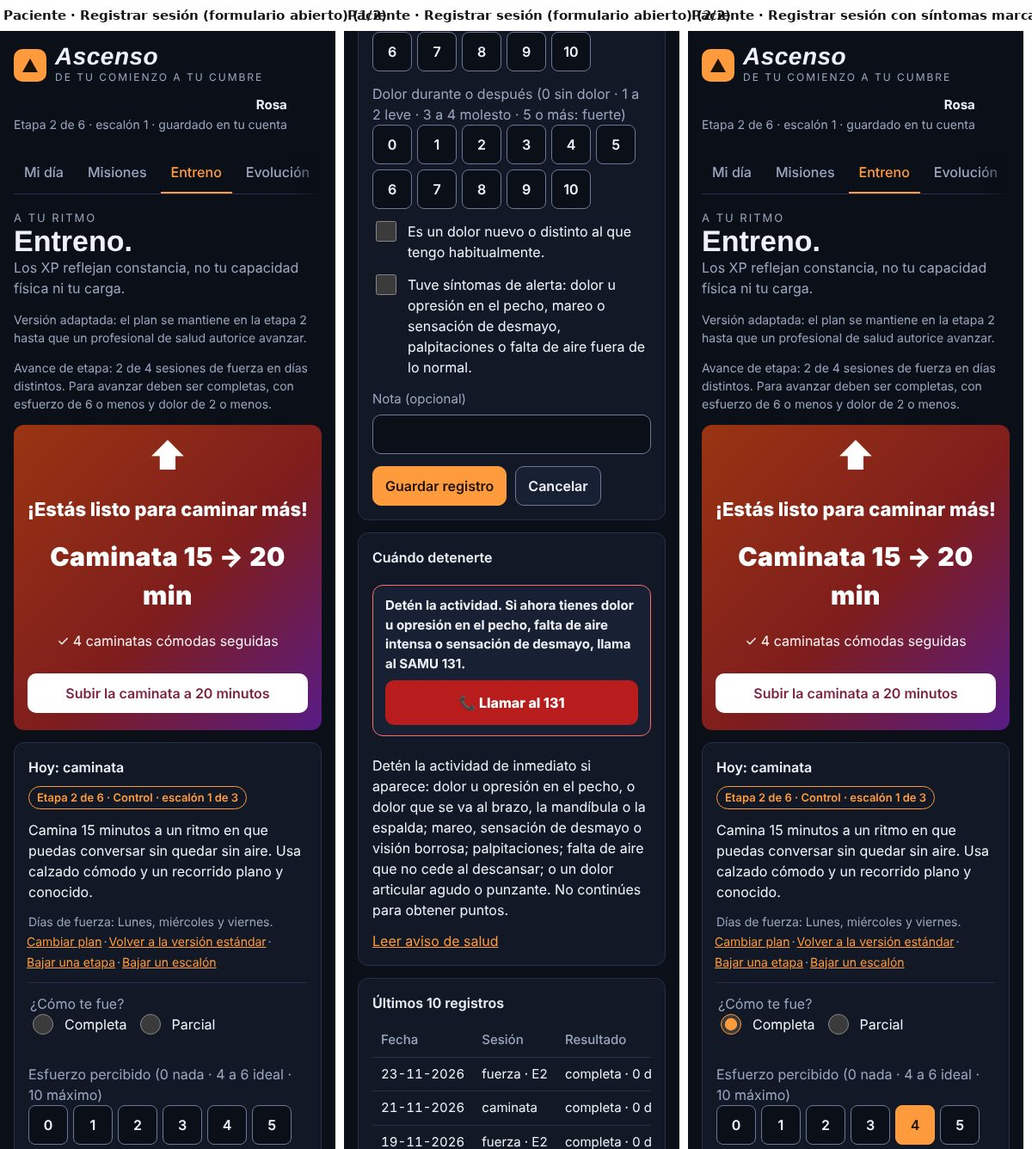
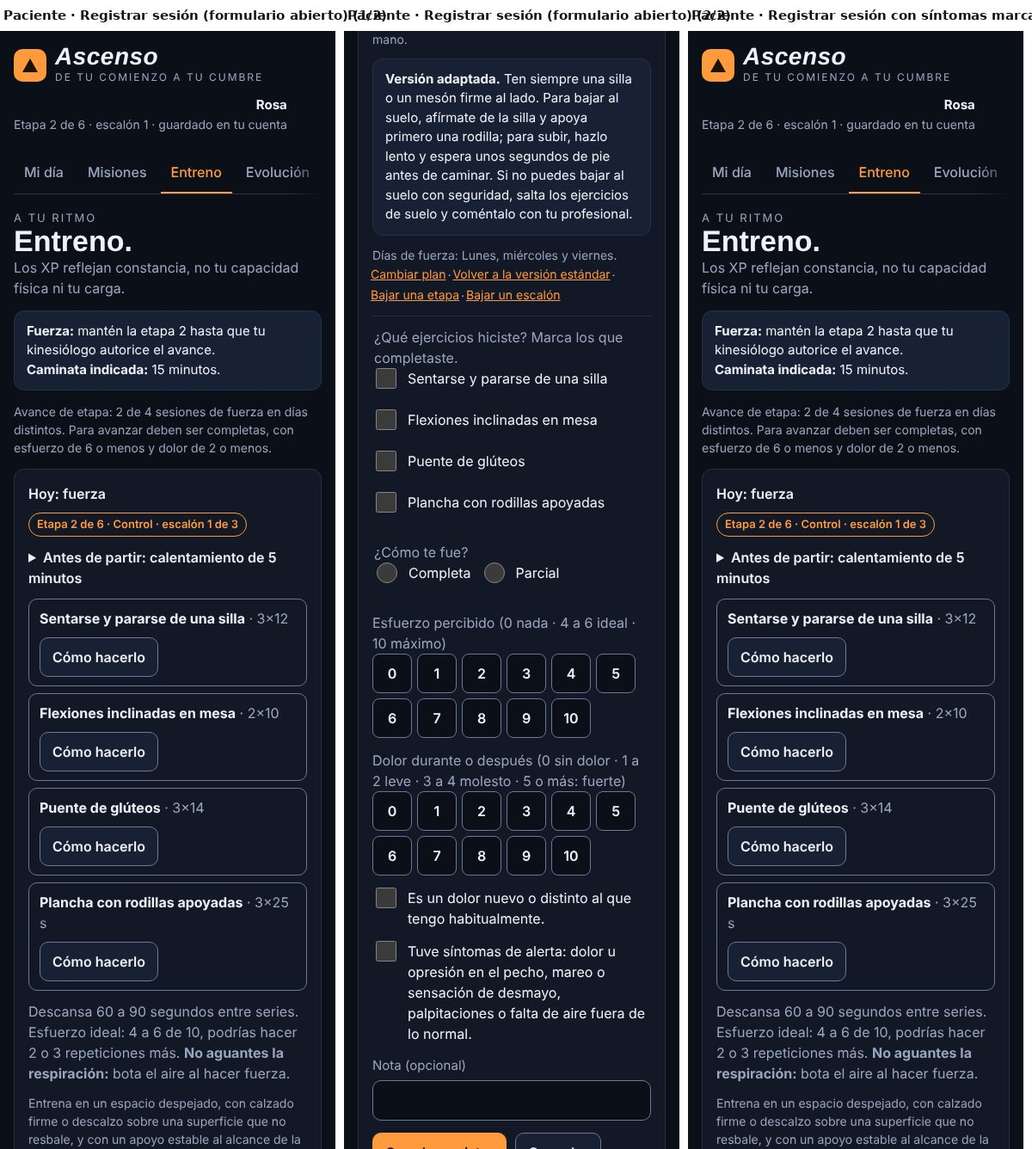
Copia de prueba v79: estado de Hoy y capturas nuevas (la app de los pacientes no cambia)
Claude-Session: https://claude.ai/code/session_01J9tU8kEPtqaroEiwXZirqq

diff --git a/beta/index.html b/beta/index.html
@@ -2,7 +2,7 @@
 <html lang="es">
 <head><base href="/ascenso/"><meta name="robots" content="noindex,nofollow"><script>(function(){var P="beta::",S=Storage.prototype,g=S.getItem,t=S.setItem,r=S.removeItem;S.getItem=function(k){return g.call(this,P+k)};S.setItem=function(k,v){return t.call(this,P+k,v)};S.removeItem=function(k){return r.call(this,P+k)};window.__BETA=true;window.__BETA_OK=[]})();</script>
 <meta charset="utf-8">
-<meta http-equiv="Content-Security-Policy" content="script-src 'self' 'sha256-s/2Ct3tFYhvXDkHKQXgCxKZn0b7j8MYsCZJcokQtB40=' 'sha256-ee+r87DiRyT1BMoy9g0ZvcoBcVChno8yxkILl9VuQII=' 'sha256-AFdyW6QBsN7g3o2Wol3DzaFtzZPYZuMmQ8KwB76Xs6I=' 'sha256-5m2u4pl+QQ/JE5w8ukPTJ/in6Wfsb5JmjLwGXVXoulQ=' 'sha256-x6Jjqo12cp5KPEwhwsD15s6v7TK37973w38eJjFjN10='; object-src 'none'; base-uri 'self'">
+<meta http-equiv="Content-Security-Policy" content="script-src 'self' 'sha256-s/2Ct3tFYhvXDkHKQXgCxKZn0b7j8MYsCZJcokQtB40=' 'sha256-2qm+Nt5Uu7L4RKgV59o0kIRsnuY0dnKosS4yotFTYTM=' 'sha256-AFdyW6QBsN7g3o2Wol3DzaFtzZPYZuMmQ8KwB76Xs6I=' 'sha256-5m2u4pl+QQ/JE5w8ukPTJ/in6Wfsb5JmjLwGXVXoulQ=' 'sha256-x6Jjqo12cp5KPEwhwsD15s6v7TK37973w38eJjFjN10='; object-src 'none'; base-uri 'self'">
 <meta name="viewport" content="width=device-width,initial-scale=1,viewport-fit=cover">
 <meta name="theme-color" content="#0b0f17">
 
@@ -428,6 +428,8 @@ function parqFlags(){return parqValid()?S.train.parq.map((v,i)=>v?i:-1).filter(i
 function trainReady(){const t=S.train;if(t.hold&&t.hold.kind==="dolor"){const hs=t.sessions.find(x=>x.id===t.hold.sid);if(hs&&!(hs.pain>=6)){if(!hs.paused)hs.paused="dolor";hs.autoLift=1;t.hold=null}}if(!S.onboard?.health)return"consent";if(!parqValid())return"parq";if(parqFlags().length&&!proClear("parq"))return"paused";if(t.hold)return"hold";if(!t.plan)return"plan";return"ok"}
 function strengthAt(stage){const t=S.train;return t.sessions.filter(s=>s.type==="fuerza"&&s.stage===stage&&(s.at||0)>=(t.stageAt||0))}
 function sessionToday(){return S.train.sessions.find(s=>s.date===today())}
+function nextTrainTxt(){const p=S.train.plan;if(!p)return"";const dw=(new Date().getDay()+1)%7;return DAYSETS[p.days].d.includes(dw)?"mañana, fuerza · etapa "+S.train.stage:"mañana, caminata de "+p.walk+" minutos"}
+function capLines(){if(!(S.train&&S.train.plan&&seniorCap()))return"";return`<div class="banner" id="capLines"><b>Fuerza:</b> mantén la etapa ${S.train.stage} hasta que tu kinesiólogo autorice el avance.<br><b>Caminata indicada:</b> ${S.train.plan.walk} minutos.</div>`}
 function walkUp(){const t=S.train;if(!t.plan||t.plan.walk>=30)return 0;const w=t.sessions.filter(s=>s.type==="caminata"&&(s.at||0)>=(t.walkAt||0)),days=[...new Set(w.map(s=>s.date))];return days.length>=NEED&&w.slice(0,NEED).every(s=>s.result==="completa"&&s.borg<=6&&s.pain<=2&&!s.alert)?t.plan.walk+5:0}
 const LVMAX=3;
 function doseAt(d,l){if(!l)return d;const m=String(d).match(/^(\d+)×(\d+)( s)?(.*)$/);if(!m)return d;return m[1]+"×"+(+m[2]+(m[3]?5:2)*l)+(m[3]||"")+m[4]}
@@ -775,7 +777,7 @@ function evoModal(){if(!view.evo)return"";const{from,to}=view.evo,mo=motionOn();
 function art(i,locked){return pxSvg(myAv(),i+1,{anim:false,scene:false,locked,label:formName(i)+", forma "+(i+1)})}
 function artOld(i,locked){const a=ART[S.profile.route],n=i+1;if(!a.have.includes(n))return emblem(i,locked);return`<img src="evo/${a.p}${pad(n)}.jpg" alt="${esc(ROUTES[S.profile.route].names[i])}, etapa ${n}" loading="lazy" style="width:100%;height:100%;object-fit:cover;display:block;${locked?"filter:grayscale(1) brightness(.45)":""}">`}
 function stageBar(){if(trainReady()!=="ok")return"";const t=S.train,pr=progression(),n=Math.min(pr.n,NEED),dots=Array.from({length:NEED},(_,i)=>`<i class="${i<n?"on":""}"></i>`).join("");
- const falta=t.stage>=6?"Llegaste a la última etapa del plan.":pr.state==="hold"?"Tu último registro tuvo dolor 3 o más: mantén la etapa.":pr.state==="cap"?"Para pasar a la etapa "+(t.stage+1)+" necesitas la autorización de tu kinesiólogo.":pr.state==="advance"?"Ya puedes pasar a la etapa "+(t.stage+1)+".":`Te ${NEED-n===1?"falta 1 sesión completa":"faltan "+(NEED-n)+" sesiones completas"} con dolor 2 o menos para la etapa ${t.stage+1}.`;
+ const falta=t.stage>=6?"Llegaste a la última etapa del plan.":pr.state==="hold"?"Tu último registro tuvo dolor 3 o más: mantén la etapa.":pr.state==="cap"?"Para pasar a la etapa "+(t.stage+1)+" necesitas la autorización de tu kinesiólogo.":pr.state==="advance"?"Ya puedes pasar a la etapa "+(t.stage+1)+".":`Te ${NEED-n===1?"falta 1 sesión completa":"faltan "+(NEED-n)+" sesiones completas"} con dolor 2 o menos para la etapa ${t.stage+1}.`+(seniorCap()?` Además, para pasar a la etapa ${t.stage+1} necesitas la autorización de tu kinesiólogo.`:"");
  return`<button class="stbar" data-act="tab" data-k="entreno" aria-label="Plan de fuerza: etapa ${t.stage} de 6. ${falta}"><span class="eyebrow">Plan de fuerza</span><b>Etapa ${t.stage} de 6${t.lvl?` · escalón ${t.lvl} de ${LVMAX}`:""}</b><span class="stdots" aria-hidden="true">${dots}</span><span class="small">${falta}</span></button>`}
 function rxAll(){return SH.mine.filter(x=>Array.isArray(x.rx)&&x.rx.length).flatMap(x=>x.rx).filter(it=>rxOn(it))}
 /* ===== Medición anónima de uso: solo conteos por día, sin usuario ni dispositivo ===== */
@@ -809,7 +811,7 @@ function vSimple(){const d=today(),its=rxAll(),ms=dayMissions(d),done=S.done[d]|
  ${memberBanner0()}${kineCard()}
  <p class="shelp">🤝 Si te ayuda alguien, puede tocar los botones por ti.</p>
  ${its.length?`<section class="scard"><h2>Ejercicios de tu kinesiólogo</h2><p style="margin:0;font-size:18px"><b>${nd} de ${its.length}</b> hechos hoy</p>${its.map((it,i)=>{const k=rxKey(it),ok=rxIsDone(k),src=it.ex?rxSrc(it.ex):"";return`<button class="srow${ok?" ok":""}" data-act="sxGo" data-i="${i}">${src?`<img src="${src}" alt="" loading="lazy">`:""}<span><b>${esc(rxName(it))}</b>${it.dose?`<small>${esc(it.dose)}</small>`:""}</span><span class="sst" aria-label="${ok?"Hecho":"Pendiente"}">${ok?"✓":""}</span></button>`}).join("")}${nx>=0?(painStop()?`<div class="banner bad" style="margin-top:12px;font-size:17px"><b>Marcaste dolor ${fb.pain} de 10.</b> Antes de seguir con ejercicios hoy, habla con tu kinesiólogo.</div>${SH.mine.length?`<button class="btn pri sxl" data-act="sxPainNote">Avisarle a mi kinesiólogo</button>`:""}<button class="btn sxl" data-act="sxPainGo">Hablé con mi kinesiólogo y quiero seguir</button>`:`<button class="btn pri sxl" data-act="sxGo" data-i="${nx}">▶ ${nd?"Seguir con el siguiente":"Empezar mis ejercicios"}</button>`):`<p style="margin:12px 0 0;font-size:19px">✅ <b>¡Listo por hoy!</b> Hiciste todos tus ejercicios.</p>`}</section>`:anyRx?`<section class="scard"><h2>Ejercicios de tu kinesiólogo</h2><p style="margin:0;font-size:18px">Hoy no te tocan. Descansar también es parte del plan.${rxNext(SH.mine.flatMap(x=>x.rx||[]))?` Los próximos son el <b>${rxNext(SH.mine.flatMap(x=>x.rx||[]))}</b>.`:""}</p></section>`:""}
- ${S.train&&S.train.plan?`<section class="scard"><h2>Tu plan Ascenso</h2>${tr==="ok"?`<p style="margin:0;font-size:18px">Hoy toca <b>${tt==="fuerza"?"fuerza · etapa "+S.train.stage:"caminata de "+S.train.plan.walk+" minutos"}</b>.</p><button class="btn sxl" data-act="sxPlan">Hacer mi plan de hoy</button>`:`<p style="margin:0;font-size:18px"><b>${trPauseMsg(tr).t}.</b>${trPauseMsg(tr).sub?" "+trPauseMsg(tr).sub:""}</p><button class="btn sxl" data-act="sxPlan">Ver mi plan</button>`}</section>`:""}
+ ${S.train&&S.train.plan?`<section class="scard"><h2>Tu plan Ascenso</h2>${tr==="ok"?(sessionToday()?`<p style="margin:0;font-size:18px"><b>Tu sesión de hoy ya está registrada.</b> Próxima: ${nextTrainTxt()}.</p>${capLines()}<button class="btn sxl" data-act="sxPlan">Ver mi plan</button>`:`<p style="margin:0;font-size:18px">Hoy toca <b>${tt==="fuerza"?"fuerza · etapa "+S.train.stage:"caminata de "+S.train.plan.walk+" minutos"}</b>.</p>${capLines()}<button class="btn sxl" data-act="sxPlan">Hacer mi plan de hoy</button>`):`<p style="margin:0;font-size:18px"><b>${trPauseMsg(tr).t}.</b>${trPauseMsg(tr).sub?" "+trPauseMsg(tr).sub:""}</p><button class="btn sxl" data-act="sxPlan">Ver mi plan</button>`}</section>`:""}
  ${ms.length?`<section class="scard"><h2>Tus hábitos de hoy</h2><p class="mute" style="margin:0">Toca cada uno cuando lo cumplas.</p>${ms.map(m=>`<button class="srow${done[m.id]?" ok":""}" data-act="toggle" data-id="${m.id}"><span><b>${esc(m.name)}</b>${m.time?`<small>${esc(m.time)}</small>`:""}</span><span class="sst" aria-label="${done[m.id]?"Cumplido":"Pendiente"}">${done[m.id]?"✓":""}</span></button>`).join("")}</section>`:""}
  <section class="scard"><h2>¿Cómo te sentiste hoy?</h2>${sScale("tired","Cansancio",fb.tired)}${sScale("pain","Dolor",fb.pain)}${fb.pain>=6?`<p class="banner bad" style="margin:12px 0 0;font-size:17px">Con dolor de ${fb.pain} de 10, no sigas con ejercicios hoy sin hablar antes con tu kinesiólogo. ${SH.mine.length?"Él verá este aviso.":""} Si el dolor es muy fuerte o aparece de golpe, llama al SAMU 131.</p>${samuBox("10px 0 0")}`:""}</section>
  ${sProg()}
@@ -828,7 +830,7 @@ function vDia(){if(S.ui&&S.ui.simple&&!view.sOut)return vSimple();const d=today(
  return`${kineCard()}${simpleOffer()}${simpleBtn()}${hasRx?memberTop():memberBanner()}${lvUpCard(0)}${vRxHoy()}${stageBar()}${hasRx&&!memberBanner0()?(pushBanner()||fbBanner()):""}${hasRx?"":ageBanner()}${moodCard()}<section class="hero${hasRx?" mini":""}"><button class="hero-px${cel?" jump":""} mood${moodLvl(moodDays())}" data-act="tab" data-k="evolucion" aria-label="Ver tu evolución">${pxSvg(myAv(),si+1,{anim:mo,label:"Tu personaje: "+formName(si)})}${cel&&view.celXp?`<span class="xpf" aria-hidden="true">+${view.celXp} XP</span>`:""}</button>
  <div style="min-width:0"><div class="eyebrow">${new Date().toLocaleDateString("es-CL",{weekday:"long",day:"numeric"})}</div><h1>${esc(formName(si))}</h1><p class="lvl">Tu personaje</p>${moodBar()}${pbar(pct)}<p class="small">${next?`<b>${next-xp} XP</b> para ${esc(formName(si+1))}`:"Llegaste a la cumbre."}</p></div></section>
  ${hasRx?"":`<div class="chips"><div class="chip"><span class="ci">${ICO_OK}</span><b>${n}/${ms.length}</b><span>misiones hoy</span></div><button class="chip" data-act="streakInfo"><span class="ci">${ICO_FIRE}</span><b>${sk}</b><span>${sk===1?"día seguido":"días seguidos"}</span></button><div class="chip"><span class="ci">${ICO_XP}</span><b>${xp}</b><span>XP total</span></div></div>`}
- ${tr==="ok"?`<button class="todo" data-act="tab" data-k="entreno"><span class="eyebrow">Hoy toca</span><b>${tt==="fuerza"?"Fuerza · etapa "+S.train.stage:"Caminata de "+S.train.plan.walk+" min"}</b><span class="go" aria-hidden="true">→</span></button>`:S.onboard&&S.onboard.health?(()=>{const m=trPauseMsg(tr);return`<button class="todo${m.bad?"":" soft"}" data-act="tab" data-k="entreno"${m.bad?` style="border:2px solid var(--warn,#c80)"`:""}><span class="eyebrow">${m.eb}</span><b>${m.t}</b>${m.sub?`<span class="small" style="display:block;font-weight:400">${m.sub}</span>`:""}<span class="go" aria-hidden="true">→</span></button>`})():""}
+ ${tr==="ok"?(sessionToday()?`<button class="todo soft" data-act="tab" data-k="entreno" id="todoDone"><span class="eyebrow">Tu sesión de hoy ya está registrada</span><b>Próxima: ${nextTrainTxt()}</b><span class="go" aria-hidden="true">→</span></button>`:`<button class="todo" data-act="tab" data-k="entreno"><span class="eyebrow">Hoy toca</span><b>${tt==="fuerza"?"Fuerza · etapa "+S.train.stage:"Caminata de "+S.train.plan.walk+" min"}</b><span class="go" aria-hidden="true">→</span></button>`)+capLines():S.onboard&&S.onboard.health?(()=>{const m=trPauseMsg(tr);return`<button class="todo${m.bad?"":" soft"}" data-act="tab" data-k="entreno"${m.bad?` style="border:2px solid var(--warn,#c80)"`:""}><span class="eyebrow">${m.eb}</span><b>${m.t}</b>${m.sub?`<span class="small" style="display:block;font-weight:400">${m.sub}</span>`:""}<span class="go" aria-hidden="true">→</span></button>`})():""}
  ${S.profile.av?"":`<button class="todo soft" data-act="tab" data-k="evolucion"><span class="eyebrow">Nuevo</span><b>Elige tu personaje entre ${Object.keys(PX.CH).length*2}</b><span class="go" aria-hidden="true">→</span></button>`}
  ${vTimer()}${hasRx?ageBanner():""}
  <div class="row sp"><h2>Misiones de hoy</h2><button class="btn pri" data-act="newMission">+ Nueva</button></div>
@@ -866,9 +868,9 @@ function vEntreno(){const t=S.train,r=trainReady();let body="";
  else if(r==="plan")body=`<form class="card" id="planForm"><h3>Crear mi plan de tres días</h3><label>3 días de fuerza por semana<select id="pDays">${Object.entries(DAYSETS).map(([k,v])=>`<option value="${k}">${v.label}</option>`).join("")}</select></label><label>Duración inicial de la caminata<select id="pWalk">${[5,10,15,20,30].map(n=>`<option value="${n}" ${n===10?"selected":""}>${n} minutos</option>`).join("")}</select></label><label class="chk tap"><input type="checkbox" id="pSenior" ${t.senior?"checked":""}> <span>Tengo 60 años o más, o prefiero la versión adaptada (ilustraciones con una persona mayor y consejos de seguridad extra).</span></label><p class="mute small">Si estás retomando, elige 5 o 10 minutos y un ritmo cómodo. Puedes hacer menos y registrar lo que realmente hiciste.</p><div class="row"><button class="btn pri" type="submit">Activar mi plan</button></div></form>`;
  else if(r==="hold"){const h=t.hold,sx=h.kind==="sintomas";body=`<div class="card"><div class="banner bad"><b>Tu plan está en pausa.</b> El ${fmtDate(h.at)} registraste ${sx?"síntomas de alerta":"dolor alto o un dolor nuevo"}.</div>${sx?samuBox():""}<p>${sx?"Si los síntomas siguen, fueron intensos o se repiten, consulta a un profesional antes de volver a entrenar. ":"Descansa de la fuerza hasta que el dolor vuelva a tu nivel habitual. Si no mejora en unos días, o empeora, consulta a un profesional."}</p>${SH.mine.length?`<p class="small"><b>Tu kinesiólogo ve este aviso en su panel</b> (${esc(SH.mine.map(x=>x.email).join(", "))}). Si no te contacta en 48 horas, escríbele tú.</p>`:`<p class="small">Si tienes kinesiólogo, comparte tu avance con él en Entreno para que vea este aviso.</p>`}<label class="chk tap"><input type="checkbox" id="holdChk"> <span>${sx?"Los síntomas pasaron y, si fue necesario, consulté a un profesional.":"El dolor volvió a mi nivel habitual."}</span></label><div class="row"><button class="btn pri" data-act="holdOff" data-m="same">Reanudar mi plan</button>${t.stage>1?`<button class="btn" data-act="holdOff" data-m="down">Reanudar una etapa más abajo</button>`:""}</div><p class="mute small">Al reanudar, el avance de etapa parte de cero${sx?" y te pediremos responder de nuevo el cuestionario previo":""}.</p></div>`}
  else{const tt=todayTrain(),st=STAGES[t.stage-1],pr=progression(),sd=sessionToday(),wu=walkUp();
-  body=`${pr.state==="hold"?`<div class="banner warn"><b>Dolor 3 o 4 en tu último registro:</b> mantén la etapa actual y no subas la carga.</div>`:pr.state==="cap"?`<form class="banner warn" id="sokForm"><b>Cumpliste las sesiones para avanzar, pero en la versión adaptada el plan se queda en la etapa ${t.stage}.</b> Desde la etapa 3 aparecen ejercicios más exigentes, como la plancha completa y el puente a una pierna. Para seguir avanzando, pide a tu médico o kinesiólogo que revise cómo los haces. Mientras tanto puedes seguir entrenando en esta etapa todo el tiempo que quieras.<p class="small" style="margin:8px 0 0">${SH.mine.length?"Tu kinesiólogo puede autorizarlo desde su panel. Cuando lo haga, podrás seguir avanzando.":"Comparte tu avance con tu kinesiólogo (en Entreno) para que pueda revisarlo y autorizarlo desde su panel."}</p></form>`:pr.state==="advance"?lvUpCard(1):t.stage<6?`${seniorCap()?`<p class="mute small">Versión adaptada: el plan se mantiene en la etapa ${t.stage} hasta que un profesional de salud autorice avanzar.</p>`:""}<p class="mute small">Avance de etapa: ${Math.min(pr.n,NEED)} de ${NEED} sesiones de fuerza en días distintos. Para avanzar deben ser completas, con esfuerzo de 6 o menos y dolor de 2 o menos.</p>`:""}${pr.state!=="advance"?lvUpCard(1):""}
+  body=`${pr.state==="hold"?`<div class="banner warn"><b>Dolor 3 o 4 en tu último registro:</b> mantén la etapa actual y no subas la carga.</div>`:pr.state==="cap"?`<form class="banner warn" id="sokForm"><b>Cumpliste las sesiones para avanzar, pero en la versión adaptada el plan se queda en la etapa ${t.stage}.</b> Desde la etapa 3 aparecen ejercicios más exigentes, como la plancha completa y el puente a una pierna. Para seguir avanzando, pide a tu médico o kinesiólogo que revise cómo los haces. Mientras tanto puedes seguir entrenando en esta etapa todo el tiempo que quieras.<p class="small" style="margin:8px 0 0">${SH.mine.length?"Tu kinesiólogo puede autorizarlo desde su panel. Cuando lo haga, podrás seguir avanzando.":"Comparte tu avance con tu kinesiólogo (en Entreno) para que pueda revisarlo y autorizarlo desde su panel."}</p></form>${capLines()}`:pr.state==="advance"?lvUpCard(1):t.stage<6?`${seniorCap()?capLines():""}<p class="mute small">Avance de etapa: ${Math.min(pr.n,NEED)} de ${NEED} sesiones de fuerza en días distintos. Para avanzar deben ser completas, con esfuerzo de 6 o menos y dolor de 2 o menos.</p>`:""}${pr.state!=="advance"?lvUpCard(1):""}
   <div class="card"><div class="row sp"><h3>Hoy: ${tt==="fuerza"?"fuerza":"caminata"}</h3><span class="pill acc">Etapa ${t.stage} de 6 · ${st[0]}${t.lvl?" · escalón "+t.lvl+" de "+LVMAX:""}</span></div>${tt==="fuerza"?`<details><summary>Antes de partir: calentamiento de 5 minutos</summary><ul style="margin:8px 0 0;padding-left:20px"><li>Camina en el lugar o por la casa 2 minutos.</li><li>10 círculos de hombros hacia adelante y 10 hacia atrás.</li><li>10 balanceos suaves de cada pierna, afirmado de un mueble.</li><li>5 repeticiones lentas del primer ejercicio, sin esfuerzo.</li></ul></details><div class="stack" style="gap:8px">${st[1].map(([id,dose,alt],k)=>{const x=EX[id],op=view.ex===k;return`<div style="border:1px solid var(--line2);border-radius:10px;padding:10px 12px"><div class="row sp"><span><b>${alt||x.n}</b> <span class="mute">· ${doseAt(dose,t.lvl||0)}</span></span><button class="btn" data-act="exOpen" data-k="${k}" aria-expanded="${op}">${op?"Ocultar":"Cómo hacerlo"}</button></div>${op?`${exImg(id,x)}<ol style="margin:10px 0 0;padding-left:20px">${x.how.map(h=>`<li>${h}</li>`).join("")}</ol><p class="small" style="margin-top:8px"><b>Ritmo:</b> ${TEMPO[id]||""}</p><p class="small" style="margin-top:4px"><b>Cuidado:</b> ${x.care}</p>${exReview(id)}`:""}</div>`}).join("")}</div><p class="mute">Descansa 60 a 90 segundos entre series. Esfuerzo ideal: 4 a 6 de 10, podrías hacer 2 o 3 repeticiones más. <b>No aguantes la respiración:</b> bota el aire al hacer fuerza.</p><p class="mute small">Entrena en un espacio despejado, con calzado firme o descalzo sobre una superficie que no resbale, y con un apoyo estable al alcance de la mano.</p>${t.senior?`<div class="banner"><b>Versión adaptada.</b> Ten siempre una silla o un mesón firme al lado. Para bajar al suelo, afírmate de la silla y apoya primero una rodilla; para subir, hazlo lento y espera unos segundos de pie antes de caminar. Si no puedes bajar al suelo con seguridad, salta los ejercicios de suelo y coméntalo con tu profesional.</div>`:""}`:`<p>Camina ${t.plan.walk} minutos a un ritmo en que puedas conversar sin quedar sin aire. Usa calzado cómodo y un recorrido plano y conocido.</p>`}<p class="mute small">Días de fuerza: ${DAYSETS[t.plan.days].label}. <button class="link tap" data-act="resetPlan">Cambiar plan</button> · <button class="link tap" data-act="seniorToggle">${t.senior?"Volver a la versión estándar":"Usar versión adaptada para adulto mayor"}</button> · <button class="link tap" data-act="stageDown" ${t.stage>1?"":"hidden"}>Bajar una etapa</button>${t.lvl?` · <button class="link tap" data-act="stepDown">Bajar un escalón</button>`:""}</p>
-  ${sd?`<div class="banner ok">Ya registraste tu sesión de hoy (${sd.type}, ${sd.result}). Una sesión por día es suficiente: el descanso también es parte del plan. <button class="link tap" data-act="delToday">Corregir el registro de hoy</button></div>`:view.log?vLogForm(tt):`<div class="row"><button class="btn pri" data-act="openLog">Registrar sesión de hoy</button></div>`}</div>`}
+  ${sd?`<div class="banner ok"><b>Tu sesión de hoy ya está registrada</b> (${sd.type}, ${sd.result}). Próxima: ${nextTrainTxt()}. Una sesión por día es suficiente: el descanso también es parte del plan. <button class="link tap" data-act="delToday">Corregir el registro de hoy</button></div>`:view.log?vLogForm(tt):`<div class="row"><button class="btn pri" data-act="openLog">Registrar sesión de hoy</button></div>`}</div>`}
  const rows=t.sessions.slice(0,10);
  return`${memberBanner()}<div><div class="eyebrow">A tu ritmo</div><h1>Entreno.</h1><p class="mute">Los XP reflejan constancia, no tu capacidad física ni tu carga.</p></div>${body}${stop}
  ${S.onboard.health?`<div class="card"><h3>Últimos 10 registros</h3>${rows.length?`<div class="scroll"><table><tr><th>Fecha</th><th>Sesión</th><th>Resultado</th><th>Esfuerzo</th><th>Dolor</th><th>Alerta / nota</th></tr>${rows.map(s=>`<tr><td>${fmtDate(s.date)}</td><td>${esc(s.type)}${s.type==="fuerza"?" · E"+(+s.stage||""):""}</td><td>${esc(s.result)}${s.exN?" · "+(s.ex||[]).length+" de "+s.exN+" ejercicios":""}</td><td>${+s.borg}</td><td>${+s.pain}${s.painNew?" (nuevo)":""}</td><td>${s.alert?"⚠ síntomas · ":""}${s.paused?"⏸ pausa · ":""}${esc(s.note||"")}</td></tr>`).join("")}</table></div>`:`<p class="mute">Aún no hay sesiones registradas.</p>`}</div>
@@ -950,7 +952,7 @@ function vAjustes(){return`<div><h1>Ajustes.</h1></div>${M&&M.pro?"":`<form clas
  <div class="card"><h3>Privacidad y autorizaciones</h3><p>Autorización de datos de salud: <b>${S.onboard.health?"Activa":"No otorgada"}</b>. Versión ${esc(S.onboard.version)} · aceptado el ${fmtDT(S.onboard.at)}.</p>
  ${S.onboard.health?(view.confirm==="health"?`<div class="banner bad">Esto borra tu cuestionario, tu plan y todos los registros de esfuerzo, dolor y síntomas. No se puede deshacer. <div class="row" style="margin-top:8px"><button class="btn danger" data-act="withdrawHealth">Sí, retirar y borrar</button><button class="btn" data-act="noConfirm">Cancelar</button></div></div>`:`<div class="row"><button class="btn" data-act="askConfirm" data-k="health">Retirar autorización de datos de salud</button></div>`):`<div class="row"><button class="btn" data-act="giveHealth">Autorizar datos de salud</button></div>`}
  ${view.expAsk?vExpSum():`<div class="row"><button class="btn" data-act="exportAsk">Descargar todos mis datos · Gratis</button></div>`}${view.exportTxt?`<textarea readonly id="exportTxt">${esc(view.exportTxt)}</textarea><p class="mute small">Copia este texto y guárdalo en un archivo.</p>`:""}
- ${view.confirm==="all"?`<div class="banner bad">Esto borra tus misiones, tu progreso, tu bitácora y tu plan. No se puede deshacer. <div class="row" style="margin-top:8px"><button class="btn danger" data-act="deleteAll">Sí, borrar todo</button><button class="btn" data-act="noConfirm">Cancelar</button></div></div>`:`<div class="row"><button class="btn danger" data-act="askConfirm" data-k="all">Borrar mis datos · Gratis</button></div>`}</div>
+ ${view.confirm==="all"?`<div class="banner bad">Esto borra tus misiones, tu progreso, tu bitácora y tu plan. No se puede deshacer. Tu cuenta sigue existiendo; para eliminarla por completo, usa «Eliminar mi cuenta», más abajo. <div class="row" style="margin-top:8px"><button class="btn danger" data-act="deleteAll">Sí, borrar todo</button><button class="btn" data-act="noConfirm">Cancelar</button></div></div>`:`<div class="row"><button class="btn danger" data-act="askConfirm" data-k="all">Borrar mi progreso y mis notas</button></div>`}</div>
  <div class="card"><h3>Dónde se guarda tu progreso</h3><p class="mute">En tu cuenta (${esc(session.user.email)}): puedes entrar desde otro dispositivo con el mismo correo y continuar.</p>${view.pass?`<form id="chPassForm" class="stack"><label>Contraseña nueva (mínimo 8 caracteres)<input id="cpPass" type="password" autocomplete="new-password" minlength="8" required></label><label>Repítela<input id="cpPass2" type="password" autocomplete="new-password" minlength="8" required></label><div class="row"><button class="btn pri" type="submit">Guardar contraseña</button><button class="btn" type="button" data-act="passClose">Cancelar</button></div></form>`:""}<div class="row">${view.pass?"":`<button class="btn" data-act="passOpen">Cambiar contraseña</button>`}<button class="btn" data-act="logout">Cerrar sesión</button></div></div>${vAvisos()}`}
 
 /* ===== Acciones ===== */
@@ -1246,7 +1248,7 @@ document.addEventListener("submit",async e=>{const id=e.target&&e.target.id;if(i
  const n=$("#maName").value.trim(),rel=$("#maRel").value;if(n.length<5||!/\s/.test(n))return toast("Escribe tu nombre y apellido.");if(!rel)return toast("Elige tu relación con el menor.");if(!$("#maOk").checked)return toast("Confirma que eres su madre, padre o tutor legal.");MAB=true;let r;try{r=await sb.rpc("minor_auth_create",{p_name:n,p_rel:rel})}catch(_){r={error:1}}MAB=false;if(r.error||!r.data||r.data.ok===false)return toast((r.data&&r.data.msg)||"No se pudo crear el código. Revisa tu conexión.");await loadShares();render();toast("Código creado. Vale 48 horas.")},true);
 function vAdultNow(){return`<div class="card" style="border:2px solid var(--accent)"><div class="eyebrow">Cumpliste 18 años</div><h2 style="margin:2px 0 6px">Desde ahora decides tú</h2><p>La autorización que dio tu madre, padre o tutor termina aquí. Tú eliges qué pasa con tus datos de salud (ejercicios indicados, marcas, dolor y esfuerzo).</p><div class="stack" style="gap:10px"><button class="btn pri" data-act="nowAdult" data-v="1" style="min-height:52px">Seguir y conservar mis datos de salud</button><button class="btn" data-act="nowAdult" data-v="0" style="min-height:52px">Seguir y borrar mis datos de salud</button></div></div>`}
 const FAM3=fam3(0);function fam3(me){const w=me?"en Ajustes, más arriba":"en Ajustes de la cuenta del menor";return`<ul class="small" style="margin:6px 0 10px;padding-left:20px"><li><b>Dejar de compartir</b> (${w}): su kinesiólogo deja de ver el avance. Los datos siguen en la cuenta.</li><li><b>Retirar autorización</b>: se borran los datos de salud y la cuenta vuelve a pedir la autorización.</li><li><b>Eliminar la cuenta</b> (${me?"en Ajustes, al final, «Eliminar mi cuenta»":"en Ajustes de la cuenta del menor, «Eliminar mi cuenta»"}): se borra todo para siempre.</li></ul>`}
-function vExpSum(){const t=S.train||{},P=S.profile||{},nd=Object.keys(S.done||{}).length;return`<div class="banner" id="expSum"><b>Antes de descargar, esto es lo que contiene el archivo:</b><ul class="small" style="margin:6px 0;padding-left:20px"><li>Tu perfil: nombre${P.birthY?", fecha de nacimiento":""}${P.weight||P.height?", peso y estatura":""}.</li><li>${(S.missions||[]).length} misiones y tu cumplimiento de ${nd} ${nd===1?"día":"días"}.</li><li>${(S.journal||[]).length} ${(S.journal||[]).length===1?"nota":"notas"} de bitácora.</li><li>${S.onboard&&S.onboard.health?`Datos de salud: ${(t.sessions||[]).length} ${(t.sessions||[]).length===1?"registro":"registros"} de sesión con esfuerzo, dolor y síntomas${t.parq?", y tu cuestionario previo":""}.`:"Sin datos de salud (no diste esa autorización)."}</li></ul><p class="small" style="margin:0 0 8px">El archivo queda en este teléfono. Si contiene datos de salud, guárdalo en un lugar seguro y compártelo solo con quien tú quieras.</p><div class="row"><button class="btn pri" data-act="export">Descargar el archivo</button><button class="btn" data-act="exportNo">Cancelar</button></div></div>`}
+function vExpSum(){const t=S.train||{},P=S.profile||{},nd=Object.keys(S.done||{}).length;return`<div class="banner" id="expSum"><b>Antes de descargar, esto es lo que contiene el archivo:</b><ul class="small" style="margin:6px 0;padding-left:20px"><li>Tu perfil: nombre${P.birthY?", fecha de nacimiento":""}${P.weight||P.height?", peso y estatura":""}.</li><li>${(S.missions||[]).length} misiones y tu cumplimiento de ${nd} ${nd===1?"día":"días"}.</li><li>${(S.journal||[]).length} ${(S.journal||[]).length===1?"nota":"notas"} de bitácora.</li><li>${S.onboard&&S.onboard.health?`Datos de salud: ${(t.sessions||[]).length} ${(t.sessions||[]).length===1?"registro":"registros"} de sesión con esfuerzo, dolor y síntomas${t.parq?", y tu cuestionario previo":""}.`:"Sin datos de salud (no diste esa autorización)."}</li></ul><p class="small" style="margin:0 0 8px">Es un archivo de texto (formato JSON) con todo tu historial desde que usas Ascenso. Tu teléfono puede guardarlo en Descargas o donde elijas. Quien tenga el archivo podrá leer su contenido.</p><div class="row"><button class="btn pri" data-act="export">Descargar el archivo</button><button class="btn" data-act="exportNo">Cancelar</button></div></div>`}
 function vShareAj(){if((M&&M.pro)||!S.onboard)return"";const L=SH.mine||[];return`<div class="card" id="shareAj"><h3>Con quién compartes tu avance</h3>${L.length?`<p class="small" style="margin:0 0 8px"><b>Ve:</b> tu cumplimiento, sesiones, esfuerzo, dolor, alertas, cuestionario previo y los ejercicios que te indica. <b>No ve:</b> tu bitácora ni tus pagos.</p><div class="stack" style="gap:8px">${L.map(x=>{const kn=Object.values(CFG.kines).find(k=>k.email===String(x.email||"").toLowerCase());return`<div class="row sp"><span><b>${kn?esc(kn.name):esc(x.email)}</b>${kn?` <span class="small">· ${esc(x.email)}</span>`:""}${x.since?` <span class="mute small">· desde ${fmtDate(String(x.since).slice(0,10))}</span>`:""}</span><button class="btn" data-act="shareOff" data-k="${esc(x.email)}">Dejar de compartir</button></div>`}).join("")}</div><p class="mute small" style="margin:8px 0 0">Al dejar de compartir, esa persona deja de ver tu avance en Ascenso desde ese momento. Tus registros siguen en tu cuenta. Los informes que ya haya descargado quedan en su poder.</p>`:`<p class="small mute" style="margin:0">Ningún kinesiólogo tiene acceso a tu avance desde Ascenso. Puedes compartirlo desde Entreno.</p>`}<p class="small" style="margin:8px 0 0"><b>Este canal no atiende urgencias.</b> Si tienes una urgencia, llama al SAMU 131.</p></div>`}
 function vMinorAdult(){if((M&&M.pro)||myAge()==null||myAge()<18)return"";const L=(MA&&MA.asAdult)||[];return`<div class="card"><h3>Familia: autorizar a un menor de edad</h3><p class="small mute" style="margin:0 0 8px">Si eres madre, padre o tutor legal de una persona de 14 a 17 años, aquí creas el código que ella escribe en su cuenta. Su kinesiólogo lo confirma después en persona. Puedes retirar la autorización cuando quieras: se borran sus datos de salud.</p>${FAM3}
  ${L.map(x=>`<div style="border:1px solid var(--line2);border-radius:10px;padding:10px 12px;margin-bottom:8px">${x.used?`<b>${esc(x.minor||"Menor autorizado")}</b><div class="small mute">Autorizado como ${esc(String(x.rel).toLowerCase())} el ${fmtDate(String(x.used).slice(0,10))}</div>`:`<div class="small mute">Código para entregar (vence el ${fmtDT(Date.parse(x.expires))})</div><div style="font-size:30px;font-weight:800;letter-spacing:.12em">${esc(String(x.code||"").replace(/(\d{4})(\d{4})/,"$1 $2"))}</div>`}<button class="link" data-act="maRevoke" data-id="${+x.id}">${x.used?"Retirar autorización":"Anular código"}</button></div>`).join("")}
@@ -1328,10 +1330,10 @@ function rxPic(id,cur){const e=EX[id]||LIB[id];if(!e)return"";if(EX[id])return e
 function rxQuick(it,key,on,adv){const id=it.ex,e=id&&(EX[id]||LIB[id]),pg=id&&LIB[id]&&LIB[id].prog;
  const lvC=pg&&LIBSEQ[id]&&LIBSEQ[id].lv?(it.lock&&it.c0?it.c0:(((S.loads||{})[id]||[])[0]||{}).c||it.c0||""):"";
  return`<div class="rxq">${e?rxPic(id,lvC):""}${it.dose?`<div class="rxdose">${esc(it.dose)}</div>`:""}${it.note?`<p class="rxnote"><b>${LIB[id]&&LIB[id].load?"Carga autorizada":"Tu kine"}:</b> ${esc(it.note)}</p>`:""}${pg&&it.c0?`<p class="rxnote"><b>Carga:</b> ${esc(progC(pg,it.c0))}</p>`:""}${e?`<ol class="rxsteps">${e.how.map(h=>`<li>${h}</li>`).join("")}</ol><p class="rxcare">⚠ ${e.care}</p>`:""}${pg?ldBlock(id,key,it):""}${adv?`<button class="btn tap${on?"":" pri"} rxdone" data-act="rxTick" data-k="${esc(rxKey(it))}" data-adv="1" aria-pressed="${on}">${on?"✓ Hecho · desmarcar":"✓ Listo, lo hice"}</button>`:""}${e?exReview(id):""}</div>`}
-function lvUp(){if(trainReady()!=="ok")return null;const t=S.train,pr=progression();
- if(pr.state==="advance")return{act:"stageUp",title:`¡Estás listo para la etapa ${t.stage+1}!`,big:`Etapa ${t.stage} → ${t.stage+1}`,why:`${NEED} sesiones completas, sin dolor`,btn:`Pasar a la etapa ${t.stage+1}`};
- if(pr.state!=="hold"&&stepReady())return{act:"stepUp",title:"¡Estás listo para subir un escalón!",big:`Escalón ${(t.lvl||0)} → ${(t.lvl||0)+1}`,why:"2 sesiones seguidas completas, sin dolor",btn:"Subir un escalón (+2 repeticiones)"};
- const wu=walkUp();if(wu&&todayTrain()!=="fuerza"){const cp=pr.state==="cap";return{act:"walkUp",title:cp?"Caminata: puedes caminar más":"¡Estás listo para caminar más!",big:`Caminata ${t.plan.walk} → ${wu} min`,why:`${NEED} caminatas cómodas seguidas`+(cp?`. La fuerza se mantiene en la etapa ${t.stage} hasta que tu kinesiólogo lo autorice`:""),btn:`Subir la caminata a ${wu} minutos`}}return null}
+function lvUp(){if(trainReady()!=="ok"||view.log)return null;const t=S.train,pr=progression(),sdn=!!sessionToday();
+ if(pr.state==="advance")return{act:"stageUp",title:`¡Estás listo para la etapa ${t.stage+1}!`,big:`Etapa ${t.stage} → ${t.stage+1}`,why:`${NEED} sesiones completas, sin dolor`,btn:sdn?`Usar la etapa ${t.stage+1} desde la próxima sesión de fuerza`:`Pasar a la etapa ${t.stage+1}`};
+ if(pr.state!=="hold"&&stepReady())return{act:"stepUp",title:"¡Estás listo para subir un escalón!",big:`Escalón ${(t.lvl||0)} → ${(t.lvl||0)+1}`,why:"2 sesiones seguidas completas, sin dolor",btn:sdn?"Usar +2 repeticiones desde la próxima sesión":"Subir un escalón (+2 repeticiones)"};
+ const wu=walkUp();if(wu&&todayTrain()!=="fuerza"){const cp=pr.state==="cap"||seniorCap();return{act:"walkUp",title:cp?"Caminata: puedes caminar más":"¡Estás listo para caminar más!",big:`Caminata ${t.plan.walk} → ${wu} min`,why:`${NEED} caminatas cómodas seguidas`+(cp?`. La fuerza se mantiene en la etapa ${t.stage} hasta que tu kinesiólogo lo autorice`:""),btn:sdn?`Usar ${wu} minutos desde la próxima caminata`:`Subir la caminata a ${wu} minutos`}}return null}
 function lvUpCard(inEnt){const u=lvUp();if(!u)return"";uxHit("lvup_seen");if(!inEnt&&S.lvSkip===today()+u.act)return"";
  return`<div class="card lvup" role="status"><div class="lvarr" aria-hidden="true">⬆</div><div class="lvt">${u.title}</div><div class="lvbig">${u.big}</div><div class="lvwhy">✓ ${u.why}</div><button class="btn lvbtn tap" data-act="${u.act}">${u.btn}</button>${inEnt?"":`<button class="link tap lvno" data-act="lvSkip" data-k="${u.act}">Hoy no</button>`}</div>`}
 setTimeout(()=>{A.lvSkip=e=>{S.lvSkip=today()+e.dataset.k;save();render()}},0);
